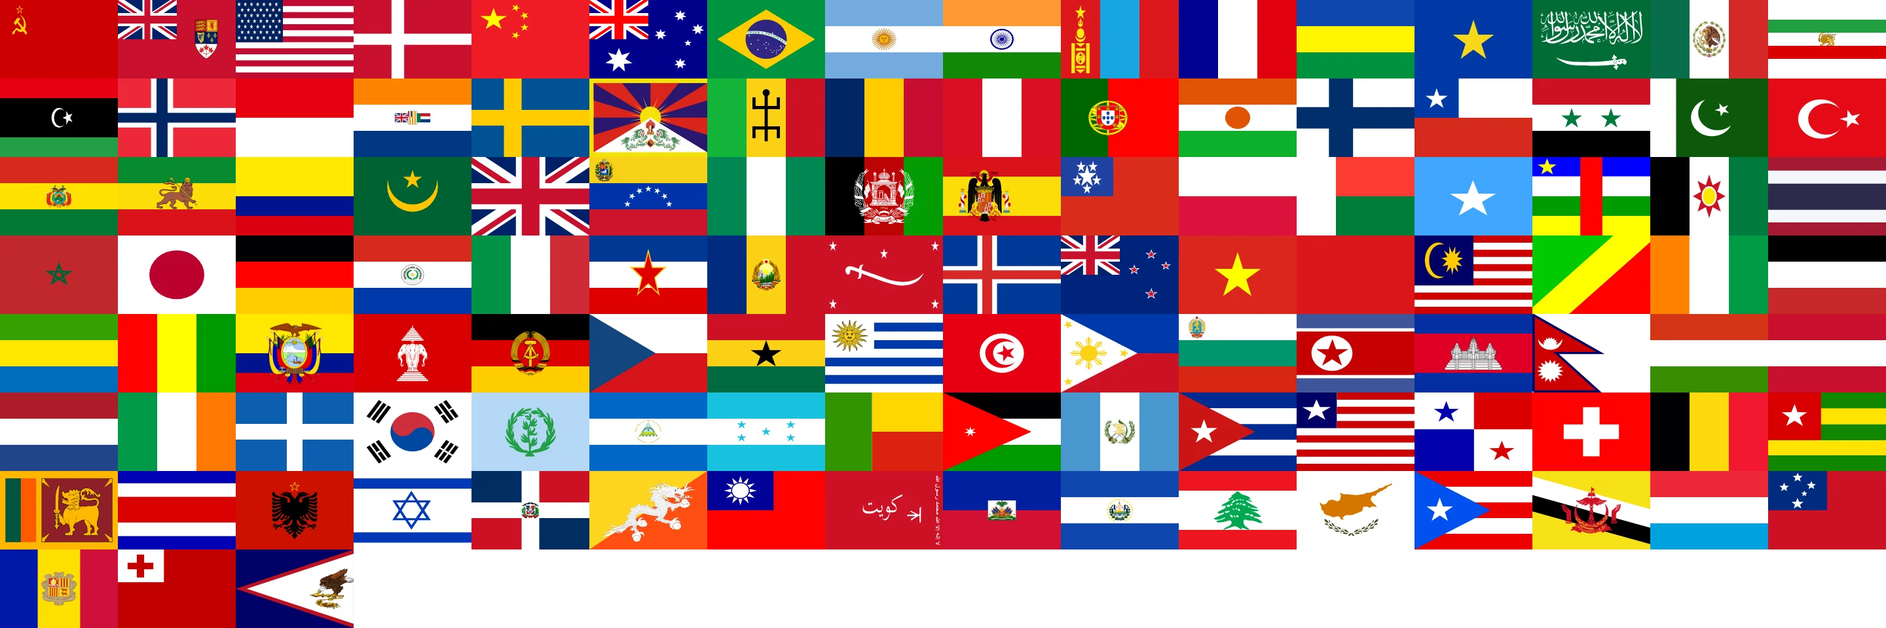
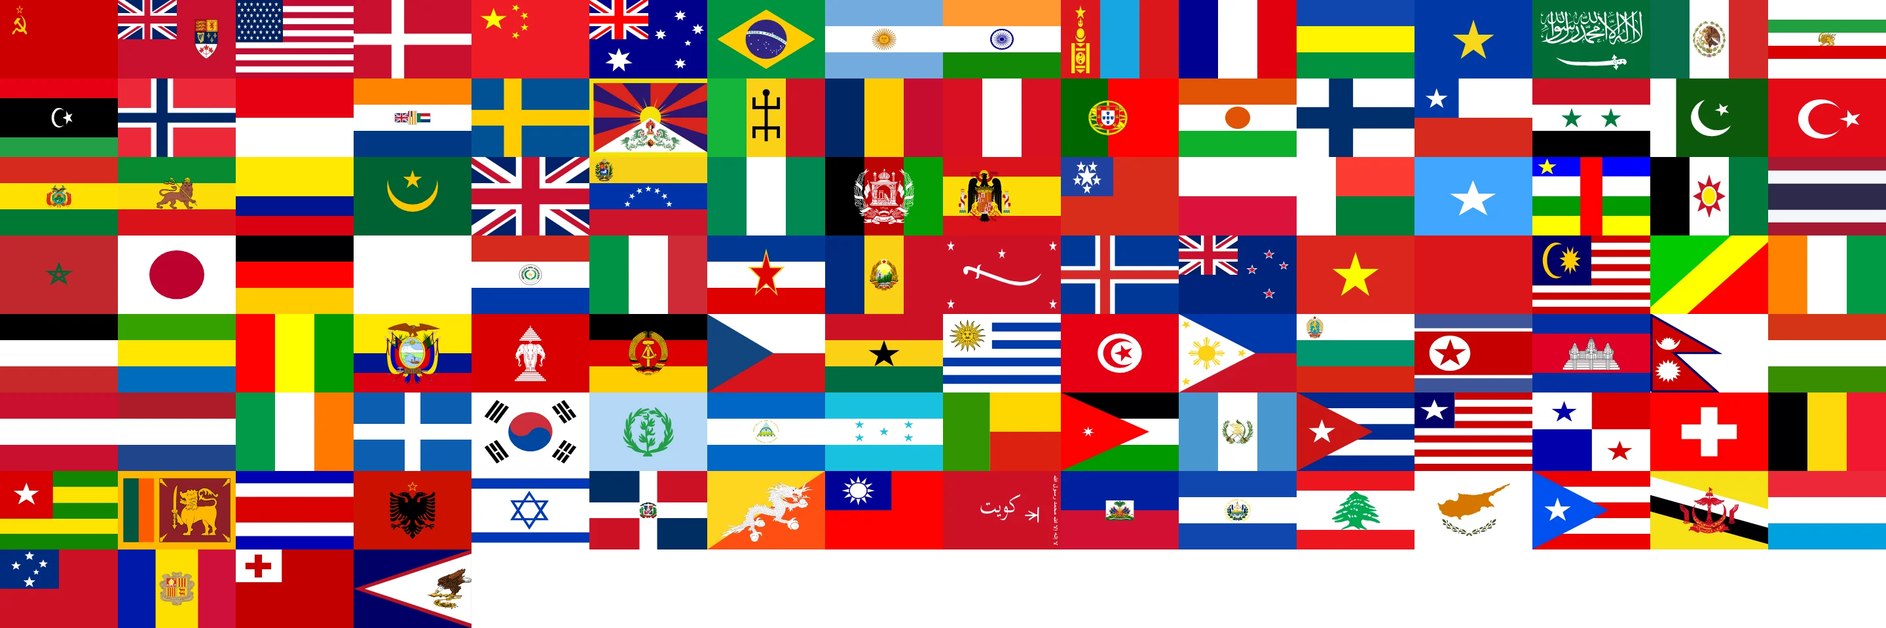
Step 6C (in progress): licence/author parsing, SVG validation, flags e2e in the suite
Claude-Session: https://claude.ai/code/session_01KnPNvm9AMM9PeVirsmCVhy

diff --git a/js/flag-index.js b/js/flag-index.js
@@ -6,4 +6,4 @@
  * not listed have no known flag for that date and get a heraldic shield.
  */
 
-export const FLAG_INDEX = {"rome":{"cols":16,"tileW":180,"tileH":120,"nations":{"Roman Empire":0,"Han Empire":1}},"medieval":{"cols":16,"tileW":180,"tileH":120,"nations":{"Hungary":0,"Kingdom of France":1,"Scotland":2,"León":3,"Burgundy":4,"Denmark":5,"Castilla":6,"Aragón":7,"Papal States":8,"Venice":9}},"ww1":{"cols":16,"tileW":180,"tileH":120,"nations":{"Russian Empire":0,"United States":1,"United Kingdom of Great Britain and Ireland":2,"Denmark":3,"French Republic":4,"Republic of China":5,"Australia":6,"Brazil":7,"German Empire":8,"Argentina":9,"Mongolia":10,"Ottoman Empire":11,"Belgium":12,"Kingdom of Italy":13,"Portugal":14,"Mexico":15,"Persia":16,"Arabia (Nejd)":17,"Norway":18,"Netherlands Indies":[19,1],"Sweden":20,"Peru":21,"Finland":[0,1],"Austro-Hungarian Empire":22,"Bolivia":23,"Abyssinia":24,"Colombia":25,"Chile":26,"Venezuela":27,"Empire of Japan":28,"Spain":29,"Afghanistan":30,"Rattanakosin Kingdom":31,"Morocco":32,"Paraguay":33,"Papua New Guinea":[6,1],"New Zealand":34,"Iceland":[3,1],"Malaya":[2,1],"Romania":35,"Uganda":[2,1],"Ecuador":36,"Bulgaria":37,"Uruguay":38,"Guyana":[2,1],"Tunisia":39,"Philippines":[1,1],"Rio De Oro":[29,1],"Nepal":40,"Serbia":41,"Suriname":[19,1],"Greece":42,"Azerbaijan":[0,1],"Nicaragua":43,"Georgia":[0,1],"Honduras":44,"Guatemala":45,"Cuba":46,"Liberia":47,"French Guiana":[4,1],"Netherlands":19,"Panama":48,"Switzerland":49,"Sierra Leone":[2,1],"Ceylon":[2,1],"Costa Rica":50,"Armenia":[0,1],"Spanish Morocco":[29,1],"Albania":51,"Dominican Republic":52,"Lesotho":[2,1],"Portuguese Guinea":[14,1],"Montenegro":53,"Belize":[2,1],"Equatorial Guinea":[29,1],"Swaziland":[2,1],"Haiti":54,"El Salvador":55,"Fiji":[2,1],"Puerto Rico":[1,1],"Gambia, The":[2,1],"Luxembourg":56,"Samoa":[8,1],"Martinique":[4,1],"Guadeloupe":[4,1],"Dominica":[2,1],"Netherlands Antilles":[19,1],"Barbados":[2,1],"Malta":[2,1],"Saint Lucia":[2,1],"Saint Vincent and the Grenadines":[2,1],"Niue":[34,1],"Antigua and Barbuda":[2,1],"Grenada":[2,1],"United States Virgin Islands":[3,1],"Saint Kitts and Nevis":[2,1],"Tonga":57,"American Samoa":[1,1],"Montserrat":[2,1],"Anguilla":[2,1],"Saint Martin":[4,1],"Saint Barthelemy":[4,1],"Wallis and Futuna Islands":[4,1]}},"ww2":{"cols":16,"tileW":180,"tileH":120,"nations":{"Soviet Union":0,"Canada":1,"United States":2,"Denmark":3,"France":4,"United Kingdom":5,"Australia":6,"Brazil":7,"Republic of China":8,"Argentina":9,"Empire of Japan":10,"Mongolia":11,"Sudan":[5,1],"Belgium":12,"Union of South Africa":13,"Saudi Arabia":14,"Kingdom of Italy":15,"Portugal":16,"Mexico":17,"Iran":18,"Libya":[15,1],"Netherlands":19,"Norway":20,"Sweden":21,"Tibet":22,"Finland":23,"Peru":24,"Chile":25,"Egypt":26,"Bolivia":27,"German Reich":28,"Colombia":29,"Spain":30,"Venezuela":31,"Afghanistan":32,"Dominion of Newfoundland":33,"Poland":34,"Turkey":35,"Kingdom of Siam":36,"Romania":37,"Paraguay":38,"Yugoslavia":39,"New Zealand":40,"Ecuador":41,"Laos":[4,1],"Uruguay":42,"Guyana":[5,1],"Tunisia":43,"Hungary":44,"Greece":45,"Bulgaria":46,"Nepal":47,"Czechoslovakia":48,"Latvia":49,"Ireland":50,"Suriname":[19,1],"Lithuania":51,"Nicaragua":52,"Trucial Oman":[5,1],"Honduras":53,"Malawi":[5,1],"Estonia":54,"Guatemala":55,"Cuba":56,"Liberia":57,"French Guiana":[4,1],"Panama":58,"Switzerland":59,"Ceylon":[5,1],"Togo":[4,1],"Costa Rica":60,"Dominican Republic":61,"Albania":62,"Israel":[5,1],"Burundi":[12,1],"Guinea-Bissau":[16,1],"Haiti":63,"French Somaliland":[4,1],"Belize":[5,1],"El Salvador":64,"Fiji":[5,1],"Puerto Rico":[2,1],"Brunei":65,"Gambia, The":[5,1],"Jamaica":[5,1],"Luxembourg":66,"Trinidad":[5,1],"Samoa":[40,1],"Bahamas":[5,1],"Martinique":[4,1],"Guadeloupe":[4,1],"Dominica":[5,1],"Netherlands Antilles":[19,1],"Andorra":67,"Barbados":[5,1],"Saint Lucia":[5,1],"Saint Vincent and the Grenadines":[5,1],"Niue":[40,1],"Antigua and Barbuda":[5,1],"Grenada":[5,1],"United States Virgin Islands":[2,1],"Saint Kitts and Nevis":[5,1],"Tonga":68,"American Samoa":[2,1],"Turks and Caicos Islands":[5,1],"Montserrat":[5,1],"Anguilla":[5,1],"Saint Martin":[4,1],"Saint Barthelemy":[4,1],"Wallis and Futuna Islands":[4,1]}},"coldwar":{"cols":16,"tileW":180,"tileH":120,"nations":{"Soviet Union":0,"Canada":1,"United States":2,"Greenland":[3,1],"People's Republic of China":4,"Australia":5,"Brazil":6,"Argentina":7,"India":8,"Mongolia":9,"Algeria":[10,1],"Sudan":11,"Republic of the Congo (Léopoldville)":12,"Saudi Arabia":13,"Mexico":14,"Iran":15,"Libya":16,"Norway":17,"Indonesia":18,"South Africa":19,"Sweden":20,"Tibet":21,"Mali":22,"Chad":23,"Peru":24,"Angola":[25,1],"Niger":26,"Finland":27,"Chile":28,"Egypt":29,"Pakistan":30,"Turkey":31,"Bolivia":32,"Ethiopia":33,"Colombia":34,"Mauritania":35,"France":10,"Tanganyika":[36,1],"Venezuela":37,"Nigeria":38,"Namibia":[19,1],"Afghanistan":39,"Mozambique":[25,1],"Zambia":[36,1],"Spain":40,"Burma":41,"Poland":42,"Botswana":[36,1],"Madagascar":43,"Somalia":44,"Central African Republic":45,"Kenya":[36,1],"Iraq":46,"Thailand":47,"Morocco":48,"Japan":49,"Federal Republic of Germany":50,"United Kingdom":36,"Paraguay":51,"Italy":52,"Zimbabwe":[36,1],"Papua New Guinea":[5,1],"Yugoslavia":53,"Romania":54,"Yemen":55,"Iceland":56,"New Zealand":57,"Vietnam":58,"Oman":59,"Malaysia":60,"Republic of the Congo (Brazzaville)":61,"Ivory Coast":62,"Western Sahara":[40,1],"Burkina Faso":63,"Gabon":64,"Syria":29,"Guinea":65,"Ecuador":66,"Laos":67,"German Democratic Republic":68,"Czechoslovakia":69,"Ghana":70,"Uganda":[36,1],"Senegal":22,"Uruguay":71,"Guyana":[36,1],"Tunisia":72,"Philippines":73,"Bulgaria":74,"North Korea":75,"Cambodia":76,"Nepal":77,"Hungary":78,"Austria":79,"Suriname":[80,1],"Ireland":81,"Greece":82,"South Korea":83,"Eritrea":84,"Portugal":25,"Nicaragua":85,"Honduras":86,"Malawi":[36,1],"United Arab Emirates":[36,1],"Benin":87,"Jordan":88,"Guatemala":89,"Cuba":90,"Liberia":91,"Netherlands":80,"French Guiana":[10,1],"Panama":92,"Switzerland":93,"Sierra Leone":[36,1],"Belgium":94,"Togo":95,"Sri Lanka":96,"Costa Rica":97,"Albania":98,"Israel":99,"Dominican Republic":100,"Bhutan":101,"Republic of China (Taiwan)":102,"Lesotho":[36,1],"Denmark":3,"Guinea-Bissau":[25,1],"Burundi":[94,1],"Rwanda":[94,1],"Djibouti":[10,1],"Belize":[36,1],"Equatorial Guinea":[40,1],"Kuwait":103,"Swaziland":[36,1],"Haiti":104,"El Salvador":105,"Lebanon":106,"Fiji":[36,1],"Cyprus":107,"Puerto Rico":108,"Brunei":109,"Gambia, The":[36,1],"Jamaica":[36,1],"Luxembourg":110,"Trinidad":[36,1],"Samoa":111,"Bahamas":[36,1],"Andorra":112,"Niue":[57,1],"Tonga":113,"American Samoa":114,"Turks and Caicos Islands":[36,1],"Wallis and Futuna Islands":[10,1]}},"modern":{"cols":16,"tileW":180,"tileH":120,"nations":{"Russia":0,"Canada":1,"United States of America":2,"Denmark":3,"China":4,"Australia":5,"Brazil":6,"Kazakhstan":7,"Argentina":8,"India":9,"Mongolia":10,"Algeria":11,"Democratic Republic of the Congo":12,"Mexico":13,"Saudi Arabia":14,"Iran":15,"Sudan":16,"Libya":17,"Norway":18,"Indonesia":19,"South Africa":20,"Sweden":21,"Mali":22,"Chad":23,"Peru":24,"Angola":25,"Niger":26,"Finland":27,"Egypt":28,"Turkey":29,"Bolivia":30,"Mauritania":31,"Ethiopia":32,"Colombia":33,"Ukraine":34,"France":35,"Pakistan":36,"Chile":37,"United Republic of Tanzania":38,"Namibia":39,"Nigeria":40,"Venezuela":41,"Afghanistan":42,"Mozambique":43,"Zambia":44,"Spain":45,"Morocco":46,"Germany":47,"Myanmar":48,"Uzbekistan":49,"Turkmenistan":50,"Poland":51,"Botswana":52,"Madagascar":53,"South Sudan":54,"Central African Republic":55,"United Kingdom":56,"Kenya":57,"Iraq":58,"Thailand":59,"Japan":60,"Italy":61,"Yemen":62,"Somalia":63,"Belarus":64,"Cameroon":65,"Papua New Guinea":66,"Paraguay":67,"New Zealand":68,"Zimbabwe":69,"Romania":70,"Iceland":71,"Vietnam":72,"Republic of the Congo":73,"Oman":74,"Malaysia":75,"Ivory Coast":76,"Kyrgyzstan":77,"Philippines":78,"Burkina Faso":79,"Gabon":80,"Syria":81,"Ecuador":82,"Guinea":83,"Laos":84,"Ghana":85,"Uganda":86,"Uruguay":87,"Tunisia":88,"Guyana":89,"Tajikistan":90,"Senegal":91,"Cambodia":92,"North Korea":93,"Greece":94,"Bulgaria":95,"Nepal":96,"Hungary":97,"Somaliland":98,"Latvia":99,"Austria":100,"Lithuania":101,"Czechia":102,"Ireland":103,"Bangladesh":104,"Suriname":105,"South Korea":106,"Portugal":107,"Nicaragua":108,"Azerbaijan":109,"Republic of Serbia":110,"Eritrea":111,"Estonia":112,"Malawi":113,"Cuba":114,"Benin":115,"Honduras":116,"Guatemala":117,"Jordan":118,"Georgia":119,"Western Sahara":120,"Liberia":121,"Slovakia":122,"Croatia":123,"Bosnia and Herzegovina":124,"United Arab Emirates":125,"Netherlands":126,"Panama":127,"Switzerland":128,"Sierra Leone":129,"Sri Lanka":130,"Belgium":131,"Moldova":132,"Togo":133,"Costa Rica":134,"Dominican Republic":135,"Bhutan":136,"Armenia":137,"Albania":138,"Taiwan":139,"North Macedonia":140,"Lesotho":141,"Israel":142,"Slovenia":143,"Guinea-Bissau":144,"Haiti":145,"Burundi":146,"Equatorial Guinea":147,"Rwanda":148,"Belize":149,"Solomon Islands":150,"Djibouti":151,"Montenegro":152,"Kuwait":153,"El Salvador":154,"eSwatini":155,"Fiji":156,"Kosovo":157,"East Timor":158,"Lebanon":159,"Qatar":160,"Jamaica":161,"The Bahamas":162,"Gambia":163,"Vanuatu":164,"Cyprus":165,"Brunei":166,"Luxembourg":167,"Trinidad and Tobago":168,"Northern Cyprus":169,"Samoa":170,"Cabo Verde":171,"Mauritius":172,"Comoros":173,"São Tomé and Principe":174,"Dominica":175,"Saint Lucia":176,"Andorra":177,"Tonga":178,"Malta":179,"Singapore":180,"Barbados":181,"Palau":182,"Antigua and Barbuda":183,"Federated States of Micronesia":184,"Grenada":185,"Liechtenstein":186,"Saint Vincent and the Grenadines":187,"Seychelles":188,"Bahrain":189,"Saint Kitts and Nevis":190,"Kiribati":191,"San Marino":192,"Marshall Islands":193,"Nauru":194,"Maldives":195,"Monaco":196,"Tuvalu":197,"Vatican":198}}};
+export const FLAG_INDEX = {"rome":{"cols":16,"tileW":180,"tileH":120,"nations":{"Roman Empire":0,"Han Empire":1}},"medieval":{"cols":16,"tileW":180,"tileH":120,"nations":{"Holy Roman Empire":0,"Hungary":1,"Kingdom of France":2,"Angevin Empire":3,"Scotland":4,"León":5,"Portugal":6,"Burgundy":7,"Denmark":8,"Castilla":9,"Aragón":10,"Papal States":11,"Venice":12}},"ww1":{"cols":16,"tileW":180,"tileH":120,"nations":{"Russian Empire":0,"Canada":1,"United States":2,"United Kingdom of Great Britain and Ireland":3,"Denmark":4,"French Republic":5,"Republic of China":6,"Australia":7,"Brazil":8,"German Empire":9,"Argentina":10,"Mongolia":11,"Ottoman Empire":12,"Belgium":13,"Kingdom of Italy":14,"Portugal":15,"Mexico":16,"Persia":17,"Arabia (Nejd)":18,"Norway":19,"Netherlands Indies":[20,1],"Sweden":21,"Peru":22,"Finland":[0,1],"Austro-Hungarian Empire":23,"Bolivia":24,"Abyssinia":25,"Colombia":26,"Chile":27,"Venezuela":28,"Empire of Japan":29,"Spain":30,"Afghanistan":31,"Rattanakosin Kingdom":32,"Morocco":33,"Paraguay":34,"Papua New Guinea":[7,1],"New Zealand":35,"Iceland":[4,1],"Malaya":[3,1],"Romania":36,"Uganda":[3,1],"Ecuador":37,"Bulgaria":38,"Uruguay":39,"Guyana":[3,1],"Tunisia":40,"Philippines":[2,1],"Rio De Oro":[30,1],"Nepal":41,"Serbia":42,"Suriname":[20,1],"Greece":43,"Azerbaijan":[0,1],"Nicaragua":44,"Georgia":[0,1],"Honduras":45,"Guatemala":46,"Cuba":47,"Liberia":48,"French Guiana":[5,1],"Netherlands":20,"Panama":49,"Switzerland":50,"Sierra Leone":[3,1],"Ceylon":[3,1],"Costa Rica":51,"Armenia":[0,1],"Spanish Morocco":[30,1],"Albania":52,"Dominican Republic":53,"Lesotho":[3,1],"Portuguese Guinea":[15,1],"Montenegro":54,"Belize":[3,1],"Equatorial Guinea":[30,1],"Swaziland":[3,1],"Haiti":55,"El Salvador":56,"Fiji":[3,1],"Puerto Rico":[2,1],"Gambia, The":[3,1],"Luxembourg":57,"Samoa":[9,1],"Martinique":[5,1],"Guadeloupe":[5,1],"Dominica":[3,1],"Netherlands Antilles":[20,1],"Barbados":[3,1],"Malta":[3,1],"Saint Lucia":[3,1],"Saint Vincent and the Grenadines":[3,1],"Niue":[35,1],"Antigua and Barbuda":[3,1],"Grenada":[3,1],"United States Virgin Islands":[4,1],"Saint Kitts and Nevis":[3,1],"Tonga":58,"American Samoa":[2,1],"Montserrat":[3,1],"Anguilla":[3,1],"Saint Martin":[5,1],"Saint Barthelemy":[5,1],"Wallis and Futuna Islands":[5,1]}},"ww2":{"cols":16,"tileW":180,"tileH":120,"nations":{"Soviet Union":0,"Canada":1,"United States":2,"Denmark":3,"France":4,"United Kingdom":5,"Australia":6,"Brazil":7,"Republic of China":8,"Argentina":9,"Empire of Japan":10,"Mongolia":11,"Sudan":[5,1],"Belgium":12,"Union of South Africa":13,"Saudi Arabia":14,"Kingdom of Italy":15,"Portugal":16,"Mexico":17,"Iran":18,"Libya":[15,1],"Netherlands":19,"Norway":20,"Sweden":21,"Tibet":22,"Finland":23,"Peru":24,"Chile":25,"Egypt":26,"Bolivia":27,"German Reich":28,"Colombia":29,"Spain":30,"Venezuela":31,"Afghanistan":32,"Dominion of Newfoundland":33,"Poland":34,"Turkey":35,"Kingdom of Siam":36,"Romania":37,"Paraguay":38,"Yugoslavia":39,"New Zealand":40,"Ecuador":41,"Laos":[4,1],"Uruguay":42,"Guyana":[5,1],"Tunisia":43,"Hungary":44,"Greece":45,"Bulgaria":46,"Nepal":47,"Czechoslovakia":48,"Latvia":49,"Ireland":50,"Suriname":[19,1],"Lithuania":51,"Nicaragua":52,"Trucial Oman":[5,1],"Honduras":53,"Malawi":[5,1],"Estonia":54,"Guatemala":55,"Cuba":56,"Liberia":57,"French Guiana":[4,1],"Panama":58,"Switzerland":59,"Ceylon":[5,1],"Togo":[4,1],"Costa Rica":60,"Dominican Republic":61,"Albania":62,"Israel":[5,1],"Burundi":[12,1],"Guinea-Bissau":[16,1],"Haiti":63,"French Somaliland":[4,1],"Belize":[5,1],"El Salvador":64,"Fiji":[5,1],"Puerto Rico":[2,1],"Brunei":65,"Gambia, The":[5,1],"Jamaica":[5,1],"Luxembourg":66,"Trinidad":[5,1],"Samoa":[40,1],"Bahamas":[5,1],"Martinique":[4,1],"Guadeloupe":[4,1],"Dominica":[5,1],"Netherlands Antilles":[19,1],"Andorra":67,"Barbados":[5,1],"Saint Lucia":[5,1],"Saint Vincent and the Grenadines":[5,1],"Niue":[40,1],"Antigua and Barbuda":[5,1],"Grenada":[5,1],"United States Virgin Islands":[2,1],"Saint Kitts and Nevis":[5,1],"Tonga":68,"American Samoa":[2,1],"Turks and Caicos Islands":[5,1],"Montserrat":[5,1],"Anguilla":[5,1],"Saint Martin":[4,1],"Saint Barthelemy":[4,1],"Wallis and Futuna Islands":[4,1]}},"coldwar":{"cols":16,"tileW":180,"tileH":120,"nations":{"Soviet Union":0,"Canada":1,"United States":2,"Greenland":[3,1],"People's Republic of China":4,"Australia":5,"Brazil":6,"Argentina":7,"India":8,"Mongolia":9,"Algeria":[10,1],"Sudan":11,"Republic of the Congo (Léopoldville)":12,"Saudi Arabia":13,"Mexico":14,"Iran":15,"Libya":16,"Norway":17,"Indonesia":18,"South Africa":19,"Sweden":20,"Tibet":21,"Mali":22,"Chad":23,"Peru":24,"Angola":[25,1],"Niger":26,"Finland":27,"Chile":28,"Egypt":29,"Pakistan":30,"Turkey":31,"Bolivia":32,"Ethiopia":33,"Colombia":34,"Mauritania":35,"France":10,"Tanganyika":[36,1],"Venezuela":37,"Nigeria":38,"Namibia":[19,1],"Afghanistan":39,"Mozambique":[25,1],"Zambia":[36,1],"Spain":40,"Burma":41,"Poland":42,"Botswana":[36,1],"Madagascar":43,"Somalia":44,"Central African Republic":45,"Kenya":[36,1],"Iraq":46,"Thailand":47,"Morocco":48,"Japan":49,"Federal Republic of Germany":50,"Cameroon":51,"United Kingdom":36,"Paraguay":52,"Italy":53,"Zimbabwe":[36,1],"Papua New Guinea":[5,1],"Yugoslavia":54,"Romania":55,"Yemen":56,"Iceland":57,"New Zealand":58,"Vietnam":59,"Oman":60,"Malaysia":61,"Republic of the Congo (Brazzaville)":62,"Ivory Coast":63,"Western Sahara":[40,1],"Burkina Faso":64,"Gabon":65,"Syria":29,"Guinea":66,"Ecuador":67,"Laos":68,"German Democratic Republic":69,"Czechoslovakia":70,"Ghana":71,"Uganda":[36,1],"Senegal":22,"Uruguay":72,"Guyana":[36,1],"Tunisia":73,"Philippines":74,"Bulgaria":75,"North Korea":76,"Cambodia":77,"Nepal":78,"Hungary":79,"Austria":80,"Suriname":[81,1],"Ireland":82,"Greece":83,"South Korea":84,"Eritrea":85,"Portugal":25,"Nicaragua":86,"Honduras":87,"Malawi":[36,1],"United Arab Emirates":[36,1],"Benin":88,"Jordan":89,"Guatemala":90,"Cuba":91,"Liberia":92,"Netherlands":81,"French Guiana":[10,1],"Panama":93,"Switzerland":94,"Sierra Leone":[36,1],"Belgium":95,"Togo":96,"Sri Lanka":97,"Costa Rica":98,"Albania":99,"Israel":100,"Dominican Republic":101,"Bhutan":102,"Republic of China (Taiwan)":103,"Lesotho":[36,1],"Denmark":3,"Guinea-Bissau":[25,1],"Burundi":[95,1],"Rwanda":[95,1],"Djibouti":[10,1],"Belize":[36,1],"Equatorial Guinea":[40,1],"Kuwait":104,"Swaziland":[36,1],"Haiti":105,"El Salvador":106,"Lebanon":107,"Fiji":[36,1],"Cyprus":108,"Puerto Rico":109,"Brunei":110,"Gambia, The":[36,1],"Jamaica":[36,1],"Luxembourg":111,"Trinidad":[36,1],"Samoa":112,"Bahamas":[36,1],"Andorra":113,"Niue":[58,1],"Tonga":114,"American Samoa":115,"Turks and Caicos Islands":[36,1],"Wallis and Futuna Islands":[10,1]}},"modern":{"cols":16,"tileW":180,"tileH":120,"nations":{"Russia":0,"Canada":1,"United States of America":2,"Denmark":3,"China":4,"Australia":5,"Brazil":6,"Kazakhstan":7,"Argentina":8,"India":9,"Mongolia":10,"Algeria":11,"Democratic Republic of the Congo":12,"Mexico":13,"Saudi Arabia":14,"Iran":15,"Sudan":16,"Libya":17,"Norway":18,"Indonesia":19,"South Africa":20,"Sweden":21,"Mali":22,"Chad":23,"Peru":24,"Angola":25,"Niger":26,"Finland":27,"Egypt":28,"Turkey":29,"Bolivia":30,"Mauritania":31,"Ethiopia":32,"Colombia":33,"Ukraine":34,"France":35,"Pakistan":36,"Chile":37,"United Republic of Tanzania":38,"Namibia":39,"Nigeria":40,"Venezuela":41,"Afghanistan":42,"Mozambique":43,"Zambia":44,"Spain":45,"Morocco":46,"Germany":47,"Myanmar":48,"Uzbekistan":49,"Turkmenistan":50,"Poland":51,"Botswana":52,"Madagascar":53,"South Sudan":54,"Central African Republic":55,"United Kingdom":56,"Kenya":57,"Iraq":58,"Thailand":59,"Japan":60,"Italy":61,"Yemen":62,"Somalia":63,"Belarus":64,"Cameroon":65,"Papua New Guinea":66,"Paraguay":67,"New Zealand":68,"Zimbabwe":69,"Romania":70,"Iceland":71,"Vietnam":72,"Republic of the Congo":73,"Oman":74,"Malaysia":75,"Ivory Coast":76,"Kyrgyzstan":77,"Philippines":78,"Burkina Faso":79,"Gabon":80,"Syria":81,"Ecuador":82,"Guinea":83,"Laos":84,"Ghana":85,"Uganda":86,"Uruguay":87,"Tunisia":88,"Guyana":89,"Tajikistan":90,"Senegal":91,"Cambodia":92,"North Korea":93,"Greece":94,"Bulgaria":95,"Nepal":96,"Hungary":97,"Somaliland":98,"Latvia":99,"Austria":100,"Lithuania":101,"Czechia":102,"Ireland":103,"Bangladesh":104,"Suriname":105,"South Korea":106,"Portugal":107,"Nicaragua":108,"Azerbaijan":109,"Republic of Serbia":110,"Eritrea":111,"Estonia":112,"Malawi":113,"Cuba":114,"Benin":115,"Honduras":116,"Guatemala":117,"Jordan":118,"Georgia":119,"Western Sahara":120,"Liberia":121,"Slovakia":122,"Croatia":123,"Bosnia and Herzegovina":124,"United Arab Emirates":125,"Netherlands":126,"Panama":127,"Switzerland":128,"Sierra Leone":129,"Sri Lanka":130,"Belgium":131,"Moldova":132,"Togo":133,"Costa Rica":134,"Dominican Republic":135,"Bhutan":136,"Armenia":137,"Albania":138,"Taiwan":139,"North Macedonia":140,"Lesotho":141,"Israel":142,"Slovenia":143,"Guinea-Bissau":144,"Haiti":145,"Burundi":146,"Equatorial Guinea":147,"Rwanda":148,"Belize":149,"Solomon Islands":150,"Djibouti":151,"Montenegro":152,"Kuwait":153,"El Salvador":154,"eSwatini":155,"Fiji":156,"Kosovo":157,"East Timor":158,"Lebanon":159,"Qatar":160,"Jamaica":161,"The Bahamas":162,"Gambia":163,"Vanuatu":164,"Cyprus":165,"Brunei":166,"Luxembourg":167,"Trinidad and Tobago":168,"Northern Cyprus":169,"Samoa":170,"Cabo Verde":171,"Mauritius":172,"Comoros":173,"São Tomé and Principe":174,"Dominica":175,"Saint Lucia":176,"Andorra":177,"Tonga":178,"Malta":179,"Singapore":180,"Barbados":181,"Palau":182,"Antigua and Barbuda":183,"Federated States of Micronesia":184,"Grenada":185,"Liechtenstein":186,"Saint Vincent and the Grenadines":187,"Seychelles":188,"Bahrain":189,"Saint Kitts and Nevis":190,"Kiribati":191,"San Marino":192,"Marshall Islands":193,"Nauru":194,"Maldives":195,"Monaco":196,"Tuvalu":197,"Vatican":198}}};

diff --git a/tools/fetch-commons-flags.py b/tools/fetch-commons-flags.py
@@ -47,8 +47,12 @@ missing = []
 for t in titles:
     k = key(t)
     svg = os.path.join(CACHE, k + '.svg')
-    have_svg = os.path.exists(svg) and os.path.getsize(svg) > 100
-    if t in meta and have_svg and meta[t].get('licenses'):
+    have_svg = os.path.exists(svg) and os.path.getsize(svg) > 100 and '<svg' in open(svg, errors='replace').read(4000)
+    if os.path.exists(svg) and not have_svg:
+        os.remove(svg)  # an error page saved in place of the file
+    m = meta.get(t, {})
+    # Done unless the licence is missing, or a non-public-domain file lacks its author.
+    if have_svg and m.get('licenses') and (m.get('author') or all('public domain' in l.lower() or l.startswith('PD') for l in m['licenses'])):
         continue
     page_url = 'https://commons.wikimedia.org/wiki/File:' + urllib.parse.quote(t.replace(' ', '_'))
     code, page = get(page_url)
@@ -58,12 +62,14 @@ for t in titles:
     canon = urllib.parse.unquote(canon.group(1)).replace('_', ' ') if canon else t
     lic = sorted({html.unescape(x).strip() for x in re.findall(r'licensetpl&#95;short"[^>]*>([^<]*)<', page) if x.strip()})
     links = sorted({html.unescape(x).strip() for x in re.findall(r'licensetpl&#95;link"[^>]*>([^<]*)<', page) if x.strip()})
-    author = re.search(r'id="fileinfotpl_aut"[^>]*>.*?</td>\s*<td[^>]*>(.*?)</td>', page, re.S)
+    author = re.search(r'id="fileinfotpl(?:_|&#95;)aut"[^>]*>.*?</td>\s*<td[^>]*>(.*?)</td>', page, re.S)
     author = re.sub(r'<[^>]+>', '', html.unescape(author.group(1))).strip()[:160] if author else ''
     file_url = re.search(r'href="((?:https:)?//upload\.wikimedia\.org/wikipedia/commons/[0-9a-f]/[0-9a-f]{2}/[^"?]+\.svg)(?:\?[^"]*)?"', page)
     if not file_url:
         missing.append(t); print('NOFILE', t); continue
     code = 200 if have_svg else get('https:' + html.unescape(file_url.group(1)).removeprefix('https:'), svg)[0]
+    if code == 200 and '<svg' not in open(svg, errors='replace').read(4000):
+        os.remove(svg); code = 'not-svg'
     if code != 200:
         missing.append(t); print('DOWNLOAD', code, t); continue
     meta[t] = {'file': k + '.svg', 'canonical': canon, 'licenses': lic, 'licenseLinks': links, 'author': author, 'page': 'https://commons.wikimedia.org/wiki/File:' + urllib.parse.quote(canon.replace(' ', '_'))}

diff --git a/docs/FLAGS.md b/docs/FLAGS.md
@@ -7,23 +7,15 @@ Generated by `tools/build-flags.mjs`. Every real flag in the game, where it come
 | Era | Nations | Own real flag or banner | Sovereign’s flag (colony) | Generated heraldry |
 |---|---|---|---|---|
 | rome | 38 | 2 | 0 | 36 |
-| medieval | 90 | 10 | 0 | 80 |
-| ww1 | 110 | 58 | 45 | 7 |
+| medieval | 90 | 13 | 0 | 77 |
+| ww1 | 110 | 59 | 45 | 6 |
 | ww2 | 113 | 69 | 41 | 3 |
-| coldwar | 154 | 117 | 35 | 2 |
+| coldwar | 154 | 118 | 35 | 1 |
 | modern | 200 | 199 | 0 | 1 |
 
 Nations with no known flag or banner for that date get a generated heraldic shield, drawn so it does not pass for a real flag.
 
 WWII: the German Reich flies the black-white-red tricolour (its 1933–35 national flag), not the swastika flag, which is illegal to display in Germany and avoided by commercial WWII games.
-
-### Wanted but not available (generated instead)
-
-- medieval: Holy Roman Empire (wc:Flag of the Holy Roman Empire (1200-1350).svg unavailable)
-- medieval: Angevin Empire (wc:Royal banner of England.svg unavailable)
-- medieval: Portugal (wc:Flag of the Kingdom of Portugal (1185–1248).svg unavailable)
-- ww1: Canada (wc:Canadian Red Ensign (1907–1922).svg unavailable)
-- coldwar: Cameroon (wc:Flag of Cameroon (1957–1961).svg unavailable)
 
 ## Sources
 
@@ -240,18 +232,20 @@ WWII: the German Reich flies the black-white-red tricolour (its 1933–35 nation
 | flag-icons 7.6.0: za.svg (South Africa) | MIT |  | modern: South Africa |
 | flag-icons 7.6.0: zm.svg (Zambia) | MIT |  | modern: Zambia |
 | flag-icons 7.6.0: zw.svg (Zimbabwe) | MIT |  | modern: Zimbabwe |
-| [Wikimedia Commons: Banner of arms kingdom of Leon.svg](https://commons.wikimedia.org/wiki/File:Banner_of_arms_kingdom_of_Leon.svg) | see page |  | medieval: León |
+| [Wikimedia Commons: Banner of arms kingdom of Leon.svg](https://commons.wikimedia.org/wiki/File:Banner_of_arms_kingdom_of_Leon.svg) | [CC BY-SA 3.0, GFDL](http://www.gnu.org/copyleft/fdl.html) | Proof02 | medieval: León |
+| [Wikimedia Commons: Canadian Red Ensign (1907–1922).svg](https://commons.wikimedia.org/wiki/File:Canadian_Red_Ensign_%281907%E2%80%931922%29.svg) | [CC BY-SA 4.0](https://creativecommons.org/licenses/by-sa/4.0) | The CSOTK | ww1: Canada |
 | [Wikimedia Commons: Ensign of Austro-Hungarian civil fleet (1869-1918).svg](https://commons.wikimedia.org/wiki/File:Ensign_of_Austro-Hungarian_civil_fleet_%281869-1918%29.svg) | Public domain |  | ww1: Austro-Hungarian Empire |
 | [Wikimedia Commons: Flag of Afghanistan (1901–1919).svg](https://commons.wikimedia.org/wiki/File:Flag_of_Afghanistan_%281901%E2%80%931919%29.svg) | Public domain |  | ww1: Afghanistan |
 | [Wikimedia Commons: Flag of Afghanistan (1931–1973).svg](https://commons.wikimedia.org/wiki/File:Flag_of_Afghanistan_%281931%E2%80%931973%29.svg) | Public domain |  | ww2: Afghanistan; coldwar: Afghanistan |
 | [Wikimedia Commons: Flag of Albania (1934–1939).svg](https://commons.wikimedia.org/wiki/File:Flag_of_Albania_%281934%E2%80%931939%29.svg) | Public domain |  | ww2: Albania |
 | [Wikimedia Commons: Flag of Albania (1946–1992).svg](https://commons.wikimedia.org/wiki/File:Flag_of_Albania_%281946%E2%80%931992%29.svg) | Public domain |  | coldwar: Albania |
-| [Wikimedia Commons: Flag of Bogd Khaanate Mongolia.svg](https://commons.wikimedia.org/wiki/File:Flag_of_Bogd_Khaanate_Mongolia.svg) | see page |  | ww1: Mongolia |
+| [Wikimedia Commons: Flag of Bogd Khaanate Mongolia.svg](https://commons.wikimedia.org/wiki/File:Flag_of_Bogd_Khaanate_Mongolia.svg) | [CC BY-SA 4.0](https://creativecommons.org/licenses/by-sa/4.0) | Joins2003 | ww1: Mongolia |
 | [Wikimedia Commons: Flag of Brazil (1889–1960).svg](https://commons.wikimedia.org/wiki/File:Flag_of_Brazil_%281889%E2%80%931960%29.svg) | Public domain |  | ww1: Brazil; ww2: Brazil |
 | [Wikimedia Commons: Flag of Brazil (1960–1968).svg](https://commons.wikimedia.org/wiki/File:Flag_of_Brazil_%281960%E2%80%931968%29.svg) | Public domain |  | coldwar: Brazil |
 | [Wikimedia Commons: Flag of Brunei 1906-1959.svg](https://commons.wikimedia.org/wiki/File:Flag_of_Brunei_1906-1959.svg) | Public domain |  | ww2: Brunei |
-| [Wikimedia Commons: Flag of Bulgaria (1948–1967).svg](https://commons.wikimedia.org/wiki/File:Flag_of_Bulgaria_%281948%E2%80%931967%29.svg) | see page |  | coldwar: Bulgaria |
+| [Wikimedia Commons: Flag of Bulgaria (1948–1967).svg](https://commons.wikimedia.org/wiki/File:Flag_of_Bulgaria_%281948%E2%80%931967%29.svg) | [CC BY-SA 4.0, GFDL](http://www.gnu.org/copyleft/fdl.html) | Scroch | coldwar: Bulgaria |
 | [Wikimedia Commons: Flag of Burma (1948–1974).svg](https://commons.wikimedia.org/wiki/File:Flag_of_Burma_%281948%E2%80%931974%29.svg) | Public domain |  | coldwar: Burma |
+| [Wikimedia Commons: Flag of Cameroon (1957–1961).svg](https://commons.wikimedia.org/wiki/File:Flag_of_Cameroon_%281957%E2%80%931961%29.svg) | Public domain |  | coldwar: Cameroon |
 | [Wikimedia Commons: Flag of Canada (1921–1957).svg](https://commons.wikimedia.org/wiki/File:Flag_of_Canada_%281921%E2%80%931957%29.svg) | Public domain |  | ww2: Canada |
 | [Wikimedia Commons: Flag of Canada (1957–1965).svg](https://commons.wikimedia.org/wiki/File:Flag_of_Canada_%281957%E2%80%931965%29.svg) | Public domain |  | coldwar: Canada |
 | [Wikimedia Commons: Flag of Ceylon (1951–1972).svg](https://commons.wikimedia.org/wiki/File:Flag_of_Ceylon_%281951%E2%80%931972%29.svg) | Public domain |  | coldwar: Sri Lanka |
@@ -264,10 +258,10 @@ WWII: the German Reich flies the black-white-red tricolour (its 1933–35 nation
 | [Wikimedia Commons: Flag of Greece (1822-1978).svg](https://commons.wikimedia.org/wiki/File:Flag_of_Greece_%281822-1978%29.svg) | Public domain |  | ww1: Greece; ww2: Greece; coldwar: Greece |
 | [Wikimedia Commons: Flag of Iraq (1959–1963).svg](https://commons.wikimedia.org/wiki/File:Flag_of_Iraq_%281959%E2%80%931963%29.svg) | Public domain |  | coldwar: Iraq |
 | [Wikimedia Commons: Flag of Italy (1861–1946).svg](https://commons.wikimedia.org/wiki/File:Flag_of_Italy_%281861%E2%80%931946%29.svg) | Public domain |  | ww1: Kingdom of Italy; ww2: Kingdom of Italy; ww2: Libya (sovereign’s flag) |
-| [Wikimedia Commons: Flag of Kuwait (1940-1961).svg](https://commons.wikimedia.org/wiki/File:Flag_of_Kuwait_%281940-1961%29.svg) | see page |  | coldwar: Kuwait |
+| [Wikimedia Commons: Flag of Kuwait (1940-1961).svg](https://commons.wikimedia.org/wiki/File:Flag_of_Kuwait_%281940-1961%29.svg) | [CC BY-SA 4.0](https://creativecommons.org/licenses/by-sa/4.0) | Tcfc2349 | coldwar: Kuwait |
 | [Wikimedia Commons: Flag of Laos (1952–1975).svg](https://commons.wikimedia.org/wiki/File:Flag_of_Laos_%281952%E2%80%931975%29.svg) | Public domain |  | coldwar: Laos |
 | [Wikimedia Commons: Flag of Libya.svg](https://commons.wikimedia.org/wiki/File:Flag_of_Libya.svg) | Public domain |  | coldwar: Libya |
-| [Wikimedia Commons: Flag of Malaya (1950–1963).svg](https://commons.wikimedia.org/wiki/File:Flag_of_Malaya_%281950%E2%80%931963%29.svg) | see page |  | coldwar: Malaysia |
+| [Wikimedia Commons: Flag of Malaya (1950–1963).svg](https://commons.wikimedia.org/wiki/File:Flag_of_Malaya_%281950%E2%80%931963%29.svg) | [CC BY-SA 2.5](https://creativecommons.org/licenses/by-sa/2.5) | No machine-readable author provided. Nightstallion assumed (based on copyright claims). | coldwar: Malaysia |
 | [Wikimedia Commons: Flag of Mauritania (1959–2017).svg](https://commons.wikimedia.org/wiki/File:Flag_of_Mauritania_%281959%E2%80%932017%29.svg) | Public domain |  | coldwar: Mauritania |
 | [Wikimedia Commons: Flag of Mexico (1893–1916).svg](https://commons.wikimedia.org/wiki/File:Flag_of_Mexico_%281893%E2%80%931916%29.svg) | Public domain |  | ww1: Mexico |
 | [Wikimedia Commons: Flag of Mexico (1934-1968).svg](https://commons.wikimedia.org/wiki/File:Flag_of_Mexico_%281934-1968%29.svg) | Public domain |  | ww2: Mexico; coldwar: Mexico |
@@ -279,16 +273,18 @@ WWII: the German Reich flies the black-white-red tricolour (its 1933–35 nation
 | [Wikimedia Commons: Flag of North Vietnam (1955–1976).svg](https://commons.wikimedia.org/wiki/File:Flag_of_North_Vietnam_%281955%E2%80%931976%29.svg) | Public domain |  | coldwar: Vietnam |
 | [Wikimedia Commons: Flag of Romania (1952–1965).svg](https://commons.wikimedia.org/wiki/File:Flag_of_Romania_%281952%E2%80%931965%29.svg) | Public domain |  | coldwar: Romania |
 | [Wikimedia Commons: Flag of Saudi Arabia (1938–1973).svg](https://commons.wikimedia.org/wiki/File:Flag_of_Saudi_Arabia_%281938%E2%80%931973%29.svg) | Public domain |  | ww2: Saudi Arabia; coldwar: Saudi Arabia |
-| [Wikimedia Commons: Flag of Serbia (1882–1918).svg](https://commons.wikimedia.org/wiki/File:Flag_of_Serbia_%281882%E2%80%931918%29.svg) | see page |  | ww1: Serbia |
+| [Wikimedia Commons: Flag of Serbia (1882–1918).svg](https://commons.wikimedia.org/wiki/File:Flag_of_Serbia_%281882%E2%80%931918%29.svg) | [CC BY-SA 2.5, CC BY-SA 3.0, GFDL](http://creativecommons.org/licenses/by-sa/3.0/) | Guilherme Paula | ww1: Serbia |
 | [Wikimedia Commons: Flag of Siam (1855).svg](https://commons.wikimedia.org/wiki/File:Flag_of_Siam_%281855%29.svg) | Public domain |  | ww1: Rattanakosin Kingdom |
 | [Wikimedia Commons: Flag of Somaliland.svg](https://commons.wikimedia.org/wiki/File:Flag_of_Somaliland.svg) | Public domain |  | modern: Somaliland |
 | [Wikimedia Commons: Flag of South Africa (1928–1994, dark colors).svg](https://commons.wikimedia.org/wiki/File:Flag_of_South_Africa_%281928%E2%80%931994%2C_dark_colors%29.svg) | Public domain |  | ww2: Union of South Africa; coldwar: South Africa; coldwar: Namibia (sovereign’s flag) |
-| [Wikimedia Commons: Flag of Spain (1785–1873, 1875–1931).svg](https://commons.wikimedia.org/wiki/File:Flag_of_Spain_%281785%E2%80%931873%2C_1875%E2%80%931931%29.svg) | see page |  | ww1: Spain; ww1: Rio De Oro (sovereign’s flag); ww1: Spanish Morocco (sovereign’s flag); ww1: Equatorial Guinea (sovereign’s flag) |
-| [Wikimedia Commons: Flag of Spain (1931–1939).svg](https://commons.wikimedia.org/wiki/File:Flag_of_Spain_%281931%E2%80%931939%29.svg) | see page |  | ww2: Spain |
-| [Wikimedia Commons: Flag of Spain (1945–1977).svg](https://commons.wikimedia.org/wiki/File:Flag_of_Spain_%281945%E2%80%931977%29.svg) | see page |  | coldwar: Spain; coldwar: Western Sahara (sovereign’s flag); coldwar: Equatorial Guinea (sovereign’s flag) |
+| [Wikimedia Commons: Flag of Spain (1785–1873, 1875–1931).svg](https://commons.wikimedia.org/wiki/File:Flag_of_Spain_%281785%E2%80%931873%2C_1875%E2%80%931931%29.svg) | [CC BY-SA 2.5, CC BY-SA 3.0, GFDL](http://creativecommons.org/licenses/by-sa/3.0/) | previous version User:Ignaciogavira ; current version HansenBCN, designs from SanchoPanzaXXI | ww1: Spain; ww1: Rio De Oro (sovereign’s flag); ww1: Spanish Morocco (sovereign’s flag); ww1: Equatorial Guinea (sovereign’s flag) |
+| [Wikimedia Commons: Flag of Spain (1931–1939).svg](https://commons.wikimedia.org/wiki/File:Flag_of_Spain_%281931%E2%80%931939%29.svg) | [CC BY-SA 4.0, GFDL](http://www.gnu.org/copyleft/fdl.html) | SanchoPanzaXXI | ww2: Spain |
+| [Wikimedia Commons: Flag of Spain (1945–1977).svg](https://commons.wikimedia.org/wiki/File:Flag_of_Spain_%281945%E2%80%931977%29.svg) | [CC BY-SA 4.0, GFDL](http://www.gnu.org/copyleft/fdl.html) | SanchoPanzaXXI | coldwar: Spain; coldwar: Western Sahara (sovereign’s flag); coldwar: Equatorial Guinea (sovereign’s flag) |
 | [Wikimedia Commons: Flag of Sudan (1956–1970).svg](https://commons.wikimedia.org/wiki/File:Flag_of_Sudan_%281956%E2%80%931970%29.svg) | Public domain |  | coldwar: Sudan |
 | [Wikimedia Commons: Flag of the Congo Free State.svg](https://commons.wikimedia.org/wiki/File:Flag_of_the_Congo_Free_State.svg) | Public domain |  | coldwar: Republic of the Congo (Léopoldville) |
-| [Wikimedia Commons: Flag of the Emirate of Nejd and Hasa.svg](https://commons.wikimedia.org/wiki/File:Flag_of_the_Emirate_of_Nejd_and_Hasa.svg) | see page |  | ww1: Arabia (Nejd) |
+| [Wikimedia Commons: Flag of the Emirate of Nejd and Hasa.svg](https://commons.wikimedia.org/wiki/File:Flag_of_the_Emirate_of_Nejd_and_Hasa.svg) | [CC BY-SA 2.5, CC BY-SA 3.0, GFDL](http://creativecommons.org/licenses/by-sa/3.0/) | DavidFirst | ww1: Arabia (Nejd) |
+| [Wikimedia Commons: Flag of the Holy Roman Empire (1200-1350).svg](https://commons.wikimedia.org/wiki/File:Flag_of_the_Holy_Roman_Empire_%281200-1350%29.svg) | Public domain |  | medieval: Holy Roman Empire |
+| [Wikimedia Commons: Flag of the Kingdom of Portugal (1185–1248).svg](https://commons.wikimedia.org/wiki/File:Flag_of_the_Kingdom_of_Portugal_%281185%E2%80%931248%29.svg) | [CC BY-SA 4.0](https://creativecommons.org/licenses/by-sa/4.0) | FDRMRZUSA (talk · contribs). See sourced file for original author. | medieval: Portugal |
 | [Wikimedia Commons: Flag of the Mongolian People's Republic (1930–1940).svg](https://commons.wikimedia.org/wiki/File:Flag_of_the_Mongolian_People%27s_Republic_%281930%E2%80%931940%29.svg) | Public domain |  | ww2: Mongolia |
 | [Wikimedia Commons: Flag of the Mongolian People's Republic (1945–1992).svg](https://commons.wikimedia.org/wiki/File:Flag_of_the_Mongolian_People%27s_Republic_%281945%E2%80%931992%29.svg) | Public domain |  | coldwar: Mongolia |
 | [Wikimedia Commons: Flag of the Mutawakkilite Kingdom of Yemen.svg](https://commons.wikimedia.org/wiki/File:Flag_of_the_Mutawakkilite_Kingdom_of_Yemen.svg) | Public domain |  | coldwar: Yemen |
@@ -306,7 +302,8 @@ WWII: the German Reich flies the black-white-red tricolour (its 1933–35 nation
 | [Wikimedia Commons: Flag of Venezuela (1930–2006).svg](https://commons.wikimedia.org/wiki/File:Flag_of_Venezuela_%281930%E2%80%932006%29.svg) | Public domain |  | ww2: Venezuela |
 | [Wikimedia Commons: Flag of Yugoslavia (1918–1941).svg](https://commons.wikimedia.org/wiki/File:Flag_of_Yugoslavia_%281918%E2%80%931941%29.svg) | Public domain |  | ww2: Yugoslavia |
 | [Wikimedia Commons: Flag of Yugoslavia (1946-1992).svg](https://commons.wikimedia.org/wiki/File:Flag_of_Yugoslavia_%281946-1992%29.svg) | Public domain |  | coldwar: Yugoslavia |
-| [Wikimedia Commons: Royal Banner of Scotland.svg](https://commons.wikimedia.org/wiki/File:Royal_Banner_of_Scotland.svg) | see page |  | medieval: Scotland |
+| [Wikimedia Commons: Royal banner of England.svg](https://commons.wikimedia.org/wiki/File:Royal_banner_of_England.svg) | [CC BY-SA 4.0](https://creativecommons.org/licenses/by-sa/4.0) | This file was derived from: Royal Arms of England.svg by Sodacan | medieval: Angevin Empire |
+| [Wikimedia Commons: Royal Banner of Scotland.svg](https://commons.wikimedia.org/wiki/File:Royal_Banner_of_Scotland.svg) | [CC BY-SA 3.0, GFDL](http://creativecommons.org/licenses/by-sa/3.0/) | Government of Scotland, according to Lyon King of Arms Act 1672 (Vector graphics image by Eyrian) | medieval: Scotland |
 | [Wikimedia Commons: State flag of Iran (1933–1964).svg](https://commons.wikimedia.org/wiki/File:State_flag_of_Iran_%281933%E2%80%931964%29.svg) | Public domain |  | ww2: Iran; coldwar: Iran |
 | [Wikimedia Commons: State flag of Persia (1907–1933).svg](https://commons.wikimedia.org/wiki/File:State_flag_of_Persia_%281907%E2%80%931933%29.svg) | Public domain |  | ww1: Persia |
 | [Wikimedia Commons: State flag of Venezuela (1954–2006).svg](https://commons.wikimedia.org/wiki/File:State_flag_of_Venezuela_%281954%E2%80%932006%29.svg) | Public domain |  | coldwar: Venezuela |
